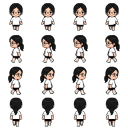
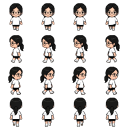
feat: implement gender-specific player sprites and preview functionality

diff --git a/src/main/java/com/game/GameApplication.java b/src/main/java/com/game/GameApplication.java
@@ -2,6 +2,7 @@ package com.game;
 
 import com.game.core.GameLoop;
 import com.game.core.InputHandler;
+import com.game.util.AssetManager;
 import com.game.util.Constants;
 import com.game.world.GameWorld;
 
@@ -9,6 +10,7 @@ import javafx.application.Application;
 import javafx.scene.Scene;
 import javafx.scene.canvas.Canvas;
 import javafx.scene.canvas.GraphicsContext;
+import javafx.scene.image.Image;
 import javafx.scene.layout.StackPane;
 import javafx.scene.paint.Color;
 import javafx.scene.text.Font;
@@ -205,93 +207,12 @@ public class GameApplication extends Application {
     }
 
     /**
-     * Vẽ preview nhân vật pixel art trên màn hình chọn.
+     * Vẽ preview nhân vật bằng frame đứng yên từ spritesheet trong assets.
      */
     private void drawCharacterPreview(GraphicsContext gc, double x, double y, boolean isGirl) {
-        int scale = 4; // Scale up for preview
-        int s = scale;
-
-        if (isGirl) {
-            // Hair (pink-brown)
-            gc.setFill(Color.web("#8B4513"));
-            gc.fillRect(x + 2*s, y, 8*s, 2*s);
-            gc.fillRect(x + 1*s, y + 2*s, 10*s, 2*s);
-            gc.fillRect(x + 1*s, y + 4*s, 2*s, 4*s);
-            gc.fillRect(x + 9*s, y + 4*s, 2*s, 4*s);
-
-            // Face
-            gc.setFill(Color.web("#FFDAB9"));
-            gc.fillRect(x + 3*s, y + 4*s, 6*s, 5*s);
-
-            // Eyes
-            gc.setFill(Color.web("#2c1810"));
-            gc.fillRect(x + 4*s, y + 5*s, 1*s, 2*s);
-            gc.fillRect(x + 7*s, y + 5*s, 1*s, 2*s);
-
-            // Blush
-            gc.setFill(Color.web("#FFB6C1", 0.6));
-            gc.fillRect(x + 3*s, y + 7*s, 1*s, 1*s);
-            gc.fillRect(x + 8*s, y + 7*s, 1*s, 1*s);
-
-            // Smile
-            gc.setFill(Color.web("#e07060"));
-            gc.fillRect(x + 5*s, y + 7*s, 2*s, 1*s);
-
-            // Ribbon
-            gc.setFill(Color.web("#FF69B4"));
-            gc.fillRect(x + 8*s, y + 1*s, 3*s, 2*s);
-
-            // Dress
-            gc.setFill(Color.web("#FF69B4"));
-            gc.fillRect(x + 3*s, y + 9*s, 6*s, 2*s);
-            gc.fillRect(x + 2*s, y + 11*s, 8*s, 3*s);
-
-            // Legs
-            gc.setFill(Color.web("#FFDAB9"));
-            gc.fillRect(x + 3*s, y + 14*s, 2*s, 2*s);
-            gc.fillRect(x + 7*s, y + 14*s, 2*s, 2*s);
-
-            // Shoes
-            gc.setFill(Color.web("#FF1493"));
-            gc.fillRect(x + 3*s, y + 16*s, 2*s, 1*s);
-            gc.fillRect(x + 7*s, y + 16*s, 2*s, 1*s);
-        } else {
-            // Hair (dark)
-            gc.setFill(Color.web("#2c3e50"));
-            gc.fillRect(x + 2*s, y, 8*s, 2*s);
-            gc.fillRect(x + 1*s, y + 2*s, 10*s, 2*s);
-
-            // Face
-            gc.setFill(Color.web("#FFDAB9"));
-            gc.fillRect(x + 3*s, y + 4*s, 6*s, 5*s);
-
-            // Eyes
-            gc.setFill(Color.web("#2c1810"));
-            gc.fillRect(x + 4*s, y + 5*s, 1*s, 2*s);
-            gc.fillRect(x + 7*s, y + 5*s, 1*s, 2*s);
-
-            // Smile
-            gc.setFill(Color.web("#e07060"));
-            gc.fillRect(x + 5*s, y + 7*s, 2*s, 1*s);
-
-            // T-shirt
-            gc.setFill(Color.web("#3498db"));
-            gc.fillRect(x + 3*s, y + 9*s, 6*s, 2*s);
-            gc.fillRect(x + 2*s, y + 9*s, 1*s, 3*s);
-            gc.fillRect(x + 9*s, y + 9*s, 1*s, 3*s);
-            gc.fillRect(x + 3*s, y + 11*s, 6*s, 2*s);
-
-            // Pants
-            gc.setFill(Color.web("#2c3e50"));
-            gc.fillRect(x + 3*s, y + 13*s, 6*s, 2*s);
-            gc.fillRect(x + 3*s, y + 14*s, 2*s, 2*s);
-            gc.fillRect(x + 7*s, y + 14*s, 2*s, 2*s);
-
-            // Shoes
-            gc.setFill(Color.web("#e74c3c"));
-            gc.fillRect(x + 3*s, y + 16*s, 2*s, 1*s);
-            gc.fillRect(x + 7*s, y + 16*s, 2*s, 1*s);
-        }
+        Image preview = AssetManager.getInstance().getPlayerPreview(isGirl);
+        gc.setImageSmoothing(false);
+        gc.drawImage(preview, x - 8, y, 96, 96);
     }
 
     /**

diff --git a/src/main/java/com/game/util/AssetManager.java b/src/main/java/com/game/util/AssetManager.java
@@ -46,6 +46,32 @@ public class AssetManager {
     }
 
     /**
+     * Player has gender-specific sprite sheets because character selection has two
+     * visual variants. Girl uses player.png, boy uses player2.png.
+     */
+    private Image loadPlayer(boolean isGirl, PixelArtGenerator generator) {
+        String filename = isGirl ? Constants.ASSET_PLAYER_GIRL : Constants.ASSET_PLAYER_BOY;
+        return loadOrGenerate(filename, () -> generator.generatePlayerSheet(isGirl));
+    }
+
+    /**
+     * Loads the idle, front-facing player frame for the character select screen.
+     * This does not mark the full asset set as loaded, so the chosen in-game
+     * sprite sheet can still be loaded later with the selected gender.
+     */
+    public Image getPlayerPreview(boolean isGirl) {
+        String key = isGirl ? "player_preview_girl" : "player_preview_boy";
+        Image preview = images.get(key);
+        if (preview == null) {
+            PixelArtGenerator generator = new PixelArtGenerator();
+            preview = new SpriteSheet(loadPlayer(isGirl, generator),
+                    Constants.SPRITE_SIZE, Constants.SPRITE_SIZE).getFrame(0, 0);
+            images.put(key, preview);
+        }
+        return preview;
+    }
+
+    /**
      * Load tất cả assets. Gọi 1 lần khi khởi tạo game.
      */
     public void loadAll(boolean isGirl) {
@@ -56,7 +82,7 @@ public class AssetManager {
 
         // Player sprite sheet (4 directions x 4 frames = 16 frames, 32x32 each)
         spriteSheets.put(Constants.KEY_PLAYER,
-                new SpriteSheet(loadOrGenerate(Constants.ASSET_PLAYER, () -> gen.generatePlayerSheet(isGirl)),
+                new SpriteSheet(loadPlayer(isGirl, gen),
                         Constants.SPRITE_SIZE, Constants.SPRITE_SIZE));
 
         // NPC sprite sheets

diff --git a/src/main/java/com/game/util/Constants.java b/src/main/java/com/game/util/Constants.java
@@ -46,7 +46,8 @@ public class Constants {
     public static final String ASSET_DIR = "assets/";
 
     // Asset file names
-    public static final String ASSET_PLAYER = "player.png";
+    public static final String ASSET_PLAYER_GIRL = "player.png";
+    public static final String ASSET_PLAYER_BOY = "player2.png";
     public static final String ASSET_NPC_GRANDMA = "npc_grandma.png";
     public static final String ASSET_NPC_DRINK_SELLER = "npc_drink_seller.png";
     public static final String ASSET_NPC_FISHER_KID = "npc_fisher_kid.png";

diff --git a/FLOW.md b/FLOW.md
@@ -37,8 +37,9 @@ Tiny Village là một game 2D pixel art được phát triển bằng **Java 17
 - **Background**: Gradient bầu trời xanh (#E0F7FA) → bãi cỏ (#B2EBF2)
 - **Clouds**: Hoạt ảnh mây trôi nhẹ nhàng
 - **Character Cards**: 
-  - Girl (áo hồng) - mặc định option 0
-  - Boy (áo xanh) - option 1
+  - Girl - mặc định option 0, preview lấy từ `src/main/resources/assets/player.png`
+  - Boy - option 1, preview lấy từ `src/main/resources/assets/player2.png`
+  - Preview dùng frame idle nhìn xuống trong spritesheet 32x32, scale lên trên card
   - Khi được chọn: Viền màu, hiệu ứng bouncing
 
 ### Điều Khiển
@@ -845,13 +846,22 @@ src/main/java/com/game/
 ```
 AssetManager.loadAll()
     │
-    ├─► Kiểm tra file ảnh trong src/main/resources/assets/ (vd: player.png)
+    ├─► Player asset có logic riêng theo giới tính đã chọn
+    │   ├─ Girl: kiểm tra src/main/resources/assets/player.png
+    │   ├─ Boy: kiểm tra src/main/resources/assets/player2.png
+    │   ├─ Nếu file tương ứng không tồn tại: fallback gọi PixelArtGenerator.generatePlayerSheet(isGirl)
+    │
+    ├─► Character Selection Screen gọi AssetManager.getPlayerPreview(isGirl)
+    │   ├─ Load riêng frame idle nhìn xuống từ player.png/player2.png để hiển thị card chọn nhân vật
+    │   └─ Không đánh dấu loadAll() đã hoàn tất, nên vào game vẫn load đúng spritesheet theo lựa chọn
+    │
+    ├─► Các asset khác kiểm tra file ảnh trong src/main/resources/assets/ (vd: tiles.png, cat.png)
     │   ├─ Nếu TỒN TẠI: Load Image từ file (Cho phép thay đổi giao diện không cần code)
     │   └─ Nếu KHÔNG TỒN TẠI: Fallback gọi PixelArtGenerator tạo hình mặc định
     │
     └─► Đưa Image/SpriteSheet vào bộ nhớ (HashMap) để sử dụng
 ```
-Game hỗ trợ thay đổi toàn bộ visual (nhân vật, map, item, reward icon) chỉ bằng cách copy file `.png` (khung hình 32x32px) vào thư mục `assets`.
+Game hỗ trợ thay đổi toàn bộ visual (nhân vật, map, item, reward icon) chỉ bằng cách copy file `.png` (khung hình 32x32px) vào thư mục `assets`. Riêng player cần hai spritesheet: `player.png` cho Girl và `player2.png` cho Boy.
 
 ---
 